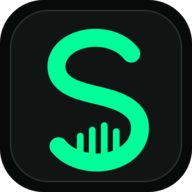
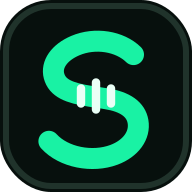
Add files via upload

diff --git a/index.html b/index.html
@@ -5,8 +5,12 @@
   <meta name="viewport" content="width=device-width, initial-scale=1, viewport-fit=cover" />
   <meta name="theme-color" content="#090b0b" />
   <meta name="description" content="SpeakSharp: 1000-question AI speaking practice with free-style recording and detailed grading." />
-  <link rel="manifest" href="./manifest.webmanifest" />
-  <link rel="apple-touch-icon" href="./icon-192.png" />
+  <link rel="preconnect" href="https://fonts.googleapis.com" />
+  <link rel="preconnect" href="https://fonts.gstatic.com" crossorigin />
+  <link href="https://fonts.googleapis.com/css2?family=Poppins:wght@400;500;600;700;800;900&display=swap" rel="stylesheet" />
+  <link rel="icon" type="image/png" href="./icon-192.png?v=4" />
+  <link rel="manifest" href="./manifest.webmanifest?v=4" />
+  <link rel="apple-touch-icon" href="./icon-192.png?v=4" />
   <meta name="apple-mobile-web-app-capable" content="yes" />
   <meta name="apple-mobile-web-app-title" content="SpeakSharp" />
   <title>SpeakSharp</title>
@@ -16,11 +20,11 @@
   --accent:#00ff99;--accentSoft:rgba(0,255,153,.11);--danger:#ff5964;--warn:#ffc85a;--radius:16px;
   --safeTop:env(safe-area-inset-top,0px);--safeBottom:env(safe-area-inset-bottom,0px)
 }
-*{box-sizing:border-box}html{background:var(--bg);color-scheme:dark}body{margin:0;min-width:320px;background:var(--bg);color:var(--text);font-family:Inter,ui-sans-serif,system-ui,-apple-system,BlinkMacSystemFont,"Segoe UI",sans-serif;-webkit-font-smoothing:antialiased}body:not(.results-open){overflow:hidden}
+*{box-sizing:border-box}html{background:var(--bg);color-scheme:dark}body{margin:0;min-width:320px;background:var(--bg);color:var(--text);font-family:"Poppins",ui-sans-serif,system-ui,-apple-system,BlinkMacSystemFont,"Segoe UI",sans-serif;-webkit-font-smoothing:antialiased}body:not(.results-open){overflow:hidden}
 button,select{font:inherit}button{-webkit-tap-highlight-color:transparent}button:focus-visible,select:focus-visible,audio:focus-visible{outline:2px solid var(--accent);outline-offset:2px}.hidden{display:none!important}.install-only{display:none}
 .app-shell{width:min(100%,980px);margin:0 auto}.practice-screen{height:100dvh;min-height:520px;padding:calc(8px + var(--safeTop)) 12px calc(8px + var(--safeBottom));display:grid;grid-template-rows:auto auto auto minmax(0,1fr) auto;gap:8px;overflow:hidden}
-.topbar{display:flex;align-items:center;justify-content:space-between;gap:10px;min-height:38px}.brand{display:flex;align-items:baseline;gap:8px;min-width:0}.brand-mark{font-size:12px;font-weight:950;letter-spacing:.14em;color:var(--accent)}.brand-name{font-size:20px;font-weight:850;letter-spacing:-.04em}.top-actions{display:flex;align-items:center;gap:6px}.ghost-btn,.primary-btn{height:38px;border-radius:11px;padding:0 13px;font-weight:800;cursor:pointer}.ghost-btn{border:1px solid var(--line);background:transparent;color:var(--text)}.primary-btn{border:1px solid var(--accent);background:var(--accent);color:#021008}.ghost-btn:disabled,.primary-btn:disabled{opacity:.42;cursor:not-allowed}.compact{height:34px;padding:0 10px;font-size:12px}
-.mode-tabs{display:grid;grid-template-columns:repeat(3,1fr);gap:6px}.mode-card{height:42px;border:1px solid var(--line);border-radius:11px;background:var(--panel);color:var(--muted);display:flex;align-items:center;justify-content:center;gap:5px;padding:0 5px;font-size:12px;font-weight:800;cursor:pointer;min-width:0}.mode-card.active{border-color:var(--accent);background:var(--accentSoft);color:var(--text)}.mode-icon{font-size:14px}.mode-long{display:none}
+.topbar{display:flex;align-items:center;justify-content:space-between;gap:10px;min-height:38px}.brand{display:flex;align-items:center;gap:9px;min-width:0}.brand-symbol{width:31px;height:31px;flex:0 0 31px;display:block}.brand-name{font-size:20px;font-weight:800;letter-spacing:-.045em;white-space:nowrap}.brand-name .sharp{color:var(--accent)}.top-actions{display:flex;align-items:center;gap:6px}.ghost-btn,.primary-btn{height:38px;border-radius:11px;padding:0 13px;font-weight:800;cursor:pointer}.ghost-btn{border:1px solid var(--line);background:transparent;color:var(--text)}.primary-btn{border:1px solid var(--accent);background:var(--accent);color:#021008}.ghost-btn:disabled,.primary-btn:disabled{opacity:.42;cursor:not-allowed}.compact{height:34px;padding:0 10px;font-size:12px}
+.mode-tabs{display:grid;grid-template-columns:repeat(4,1fr);gap:6px}.mode-card{height:42px;border:1px solid var(--line);border-radius:11px;background:var(--panel);color:var(--muted);display:flex;align-items:center;justify-content:center;gap:5px;padding:0 5px;font-size:12px;font-weight:800;cursor:pointer;min-width:0}.mode-card.active{border-color:var(--accent);background:var(--accentSoft);color:var(--text)}.mode-symbol{font-size:12px;font-weight:900;color:var(--accent);line-height:1}.mode-long{display:none}
 .control-row{display:flex;align-items:center;gap:6px;min-width:0}.select-wrap{position:relative;min-width:0}.select-wrap label{position:absolute;width:1px;height:1px;overflow:hidden;clip:rect(0 0 0 0)}select{height:36px;border:1px solid var(--line);border-radius:10px;background:#0c0f0e;color:var(--text);padding:0 28px 0 10px;font-size:12px;font-weight:700}.grow{margin-left:auto}.new-prompt{height:36px;white-space:nowrap}
 .practice-core{border:1px solid var(--line);border-radius:var(--radius);background:var(--panel);padding:clamp(12px,2.4vw,20px);display:grid;grid-template-rows:auto minmax(0,1fr);min-height:0;overflow:hidden}.prompt-wrap{min-height:0;overflow:hidden}.prompt-meta{color:var(--accent);font-size:10px;font-weight:900;letter-spacing:.14em}.prompt{font-size:clamp(22px,4.8vw,39px);line-height:1.12;font-weight:850;letter-spacing:-.035em;margin-top:6px;max-height:3.45em;overflow:hidden}.cue-list{margin-top:8px;color:#c5cec9;font-size:12px;line-height:1.35}.cue-list ul{margin:0;padding-left:18px;display:grid;grid-template-columns:1fr 1fr;gap:3px 20px}
 .speak-stage{min-height:0;display:flex;align-items:center;justify-content:center;gap:clamp(18px,5vw,54px);padding:8px 0 2px}.timer-wrap{text-align:center;min-width:86px}.timer{font-size:clamp(32px,7vw,52px);line-height:1;font-weight:900;letter-spacing:-.06em;font-variant-numeric:tabular-nums}.timer-label{font-size:9px;font-weight:900;letter-spacing:.16em;color:var(--muted);margin-top:6px}.record-btn{width:clamp(96px,22vw,132px);height:clamp(96px,22vw,132px);border-radius:50%;border:1px solid #314139;background:#0b0f0d;color:var(--text);display:grid;place-items:center;align-content:center;gap:7px;cursor:pointer}.record-btn.recording{border-color:var(--danger)}.record-dot{width:20px;height:20px;border-radius:50%;background:var(--accent)}.recording .record-dot{background:var(--danger);border-radius:5px}#recordBtnText{font-size:11px;font-weight:950;letter-spacing:.13em}.stage-note{max-width:210px;color:var(--muted);font-size:11px;line-height:1.35;margin:0}
@@ -29,9 +33,13 @@ button,select{font:inherit}button{-webkit-tap-highlight-color:transparent}button
 .score-grid{display:grid;grid-template-columns:repeat(4,1fr);gap:7px;margin-top:10px}.score-tile{border:1px solid var(--line);border-radius:12px;background:var(--panel);padding:10px;min-width:0}.score-tile span{display:block;color:var(--muted);font-size:9px;line-height:1.2;min-height:22px}.score-tile strong{display:block;font-size:23px;margin-top:3px}
 .delivery-grid{display:grid;grid-template-columns:repeat(6,1fr);gap:7px;margin-top:7px}.delivery-item{border:1px solid var(--line);border-radius:11px;padding:8px 10px}.delivery-item span{display:block;color:var(--muted);font-size:8px}.delivery-item strong{display:block;font-size:15px;margin-top:2px}
 .report-grid{display:grid;grid-template-columns:1fr 1fr;gap:8px;margin-top:8px}.report-card{border:1px solid var(--line);background:var(--panel);border-radius:14px;padding:14px;min-width:0}.report-card.wide{grid-column:1/-1}.report-card h3{font-size:14px;margin:0 0 8px}.report-card p,.report-card li{color:#c7d0cc;font-size:13px;line-height:1.55}.report-card p{margin:0}.report-card ul{margin:0;padding-left:18px}.transcript{white-space:pre-wrap}.criterion-list,.issue-list{display:grid;gap:7px}.criterion-row,.issue{background:var(--panel2);border-radius:10px;padding:10px}.criterion-top{display:flex;align-items:center;justify-content:space-between;gap:8px}.criterion-row strong,.issue strong{font-size:12px}.criterion-row b{color:var(--accent);font-size:13px}.criterion-row p,.issue p{margin:4px 0 0;font-size:12px;line-height:1.45}.evidence{color:var(--warn)!important}.next-step{color:#d8e1dd!important}.result-actions{margin-top:10px}.empty{color:var(--muted);font-size:12px}.toast{position:fixed;left:50%;bottom:calc(14px + var(--safeBottom));transform:translateX(-50%);max-width:min(90vw,460px);background:#1a221f;border:1px solid var(--line);padding:10px 13px;border-radius:11px;font-size:12px;opacity:0;pointer-events:none;transition:opacity .2s;z-index:20}.toast.show{opacity:1}
+
+.topics-screen{height:100dvh;overflow-y:auto;padding:calc(8px + var(--safeTop)) 12px calc(28px + var(--safeBottom));scroll-behavior:smooth}.topics-inner{width:min(100%,1080px);margin:0 auto}.topics-topbar{display:flex;align-items:center;justify-content:space-between;gap:12px;min-height:42px}.topics-hero{padding:clamp(18px,4vw,36px) 0 16px}.topics-hero h1{font-size:clamp(30px,6vw,52px);line-height:1.02;letter-spacing:-.055em;margin:5px 0 8px}.topics-hero p{margin:0;color:var(--muted);font-size:13px;max-width:680px;line-height:1.55}.topic-tools{display:flex;gap:8px;align-items:center;margin-top:16px}.topic-search{height:42px;flex:1;min-width:0;border:1px solid var(--line);border-radius:12px;background:var(--panel);color:var(--text);padding:0 13px;font:600 13px "Poppins",sans-serif}.topic-search::placeholder{color:#65716c}.topic-count{font-size:11px;color:var(--muted);white-space:nowrap}.topic-layout{display:grid;grid-template-columns:minmax(0,1fr) minmax(330px,.95fr);gap:10px;align-items:start}.topic-grid{display:grid;grid-template-columns:repeat(2,minmax(0,1fr));gap:7px}.topic-card{min-height:72px;border:1px solid var(--line);border-radius:14px;background:var(--panel);color:var(--text);padding:11px;display:flex;align-items:center;gap:10px;text-align:left;cursor:pointer}.topic-card:hover{border-color:#3c4a44}.topic-card.active{border-color:var(--accent);background:var(--accentSoft)}.topic-emoji{width:36px;height:36px;flex:0 0 36px;border-radius:11px;background:var(--panel2);display:grid;place-items:center;font-size:18px;color:var(--accent);font-weight:800}.topic-card-copy{min-width:0}.topic-card-copy strong{display:block;font-size:12px;white-space:nowrap;overflow:hidden;text-overflow:ellipsis}.topic-card-copy span{display:block;color:var(--muted);font-size:9px;margin-top:3px}.topic-detail{position:sticky;top:8px;border:1px solid var(--line);border-radius:16px;background:var(--panel);padding:15px}.topic-detail-empty{min-height:260px;display:grid;place-items:center;text-align:center;color:var(--muted);font-size:12px;padding:30px}.topic-detail-head{display:flex;align-items:center;justify-content:space-between;gap:10px;margin-bottom:10px}.topic-detail-title{display:flex;align-items:center;gap:10px;min-width:0}.topic-detail-title .topic-emoji{width:40px;height:40px;flex-basis:40px}.topic-detail-title h2{font-size:18px;letter-spacing:-.035em;margin:0}.topic-detail-title p{font-size:9px;color:var(--muted);margin:2px 0 0}.topic-random-btn{height:36px;padding:0 10px}.topic-questions{display:grid;gap:6px}.topic-question{width:100%;border:1px solid var(--line);border-radius:11px;background:#0c0f0e;color:#dfe6e3;text-align:left;padding:9px 10px;display:flex;gap:8px;align-items:flex-start;cursor:pointer;font:500 11px/1.42 "Poppins",sans-serif}.topic-question:hover{border-color:var(--accent);background:var(--accentSoft)}.topic-question b{color:var(--accent);font-size:9px;min-width:18px;padding-top:2px}.topic-empty{grid-column:1/-1;border:1px dashed var(--line);border-radius:14px;padding:24px;color:var(--muted);text-align:center;font-size:12px}
+@media(max-width:760px){.topics-screen{padding-left:9px;padding-right:9px}.topics-hero{padding:16px 0 12px}.topic-tools{margin-top:12px}.topic-layout{grid-template-columns:1fr}.topic-detail{position:static;order:-1}.topic-grid{grid-template-columns:repeat(2,minmax(0,1fr))}.topic-card{min-height:64px;padding:9px}.topic-emoji{width:32px;height:32px;flex-basis:32px;font-size:16px}.topic-detail-empty{min-height:120px}.topic-detail-head{align-items:flex-start}.topic-random-btn{font-size:10px}.topic-question{font-size:10.5px;padding:8px 9px}}
+@media(max-width:390px){.topic-grid{grid-template-columns:1fr 1fr;gap:5px}.topic-card{gap:7px}.topic-card-copy strong{font-size:10.5px}.topic-card-copy span{font-size:8px}.topic-count{display:none}.topics-hero h1{font-size:30px}.topic-detail{padding:11px}.topic-detail-title h2{font-size:16px}}
 .hidden-maintenance{display:none!important}
-@media(max-width:700px){.practice-screen{padding-left:8px;padding-right:8px;gap:6px}.brand-name{font-size:18px}.mode-card{height:38px;font-size:10px;gap:3px}.mode-icon{font-size:12px}.control-row select,.new-prompt{height:34px}.practice-core{padding:11px}.prompt{font-size:clamp(20px,7vw,31px);max-height:4.55em}.cue-list{font-size:10.5px}.cue-list ul{grid-template-columns:1fr;gap:1px}.speak-stage{gap:18px}.stage-note{display:none}.recorded-panel{grid-template-columns:1fr auto;gap:6px}.recorded-panel audio{grid-column:1/-1;height:34px}.metric-strip{grid-column:1/2}.recorded-panel .action-row{grid-column:2/3}.mini-metric{padding:5px}.mini-metric span{font-size:7px}.mini-metric strong{font-size:12px}.score-grid{grid-template-columns:1fr 1fr}.delivery-grid{grid-template-columns:repeat(3,1fr)}.report-grid{grid-template-columns:1fr}.report-card.wide{grid-column:auto}}
-@media(max-width:390px){.brand-mark{display:none}.mode-card{font-size:9px;padding:0 2px}.mode-icon{display:none}.control-row{gap:4px}.control-row select{max-width:112px;padding-left:7px}.new-prompt{font-size:11px;padding:0 8px}.prompt{font-size:clamp(19px,6.5vw,25px)}.record-btn{width:92px;height:92px}.timer{font-size:31px}.metric-strip{gap:3px}.mini-metric{padding:4px}.recorded-panel .ghost-btn{display:none}.recorded-panel .primary-btn{padding:0 8px;font-size:11px}}
+@media(max-width:700px){.practice-screen{padding-left:8px;padding-right:8px;gap:6px}.brand-name{font-size:18px}.mode-card{height:38px;font-size:10px;gap:3px}.mode-symbol{font-size:11px}.control-row select,.new-prompt{height:34px}.practice-core{padding:11px}.prompt{font-size:clamp(20px,7vw,31px);max-height:4.55em}.cue-list{font-size:10.5px}.cue-list ul{grid-template-columns:1fr;gap:1px}.speak-stage{gap:18px}.stage-note{display:none}.recorded-panel{grid-template-columns:1fr auto;gap:6px}.recorded-panel audio{grid-column:1/-1;height:34px}.metric-strip{grid-column:1/2}.recorded-panel .action-row{grid-column:2/3}.mini-metric{padding:5px}.mini-metric span{font-size:7px}.mini-metric strong{font-size:12px}.score-grid{grid-template-columns:1fr 1fr}.delivery-grid{grid-template-columns:repeat(3,1fr)}.report-grid{grid-template-columns:1fr}.report-card.wide{grid-column:auto}}
+@media(max-width:390px){.brand-symbol{width:27px;height:27px;flex-basis:27px}.brand-name{font-size:16px}.mode-card{font-size:9px;padding:0 2px}.mode-symbol{display:none}.control-row{gap:4px}.control-row select{max-width:112px;padding-left:7px}.new-prompt{font-size:11px;padding:0 8px}.prompt{font-size:clamp(19px,6.5vw,25px)}.record-btn{width:92px;height:92px}.timer{font-size:31px}.metric-strip{gap:3px}.mini-metric{padding:4px}.recorded-panel .ghost-btn{display:none}.recorded-panel .primary-btn{padding:0 8px;font-size:11px}}
 @media(max-height:650px){.practice-screen{gap:5px}.topbar{min-height:32px}.mode-tabs{gap:4px}.mode-card{height:34px}.control-row select,.new-prompt{height:32px}.practice-core{padding:9px}.prompt{font-size:clamp(18px,4.8vw,28px);margin-top:4px}.cue-list{margin-top:5px}.record-btn{width:88px;height:88px}.timer{font-size:30px}.speak-stage{padding:3px 0}.recorded-panel{min-height:50px;padding:5px}}
 @media(prefers-reduced-motion:reduce){*{scroll-behavior:auto!important;transition:none!important}}
   </style>
@@ -40,7 +48,7 @@ button,select{font:inherit}button{-webkit-tap-highlight-color:transparent}button
   <div class="app-shell">
     <section class="practice-screen" aria-label="Speaking practice">
       <header class="topbar">
-        <div class="brand"><span class="brand-mark">SS</span><span class="brand-name">SpeakSharp</span></div>
+        <div class="brand"><svg class="brand-symbol" viewBox="0 0 64 64" aria-hidden="true"><rect x="2" y="2" width="60" height="60" rx="17" fill="#0d1512" stroke="#26302c" stroke-width="2"/><path d="M44.5 18.2C39.9 13.7 31.7 12.4 25.1 15.2C19.7 17.5 17 21.5 18 25.3C19.1 29.4 23 31 30.1 32.1L35.3 32.9C41.8 33.9 45.3 36.5 46 40.5C46.8 45.1 43.6 49.5 38 51.6C30.8 54.3 21.2 52.5 16.3 47.1" fill="none" stroke="#19f2a4" stroke-width="7" stroke-linecap="round"/><path d="M27 29.5v5M32 27.5v9M37 29.5v5" stroke="#eafff6" stroke-width="2.8" stroke-linecap="round"/></svg><span class="brand-name">Speak<span class="sharp">Sharp</span></span></div>
         <div class="top-actions">
           <button id="installBtn" class="ghost-btn compact hidden" type="button">Install</button>
           <button id="apiKeyBtn" class="ghost-btn compact" type="button">API key</button>
@@ -48,9 +56,10 @@ button,select{font:inherit}button{-webkit-tap-highlight-color:transparent}button
       </header>
 
       <nav class="mode-tabs" aria-label="Practice mode">
-        <button class="mode-card active" data-mode="random" type="button"><span class="mode-icon">🎲</span><span>Random</span></button>
-        <button class="mode-card" data-mode="ielts" type="button"><span class="mode-icon">🎓</span><span>IELTS</span></button>
-        <button class="mode-card" data-mode="thought" type="button"><span class="mode-icon">🧠</span><span>Thought</span></button>
+        <button class="mode-card active" data-mode="random" type="button"><span class="mode-symbol">↻</span><span>Random</span></button>
+        <button class="mode-card" data-mode="topics" type="button"><span class="mode-symbol">#</span><span>Topics</span></button>
+        <button class="mode-card" data-mode="ielts" type="button"><span class="mode-symbol">I</span><span>IELTS</span></button>
+        <button class="mode-card" data-mode="thought" type="button"><span class="mode-symbol">→</span><span>Thought</span></button>
       </nav>
 
       <div class="control-row">
@@ -91,6 +100,29 @@ button,select{font:inherit}button{-webkit-tap-highlight-color:transparent}button
         <div class="metric-strip" id="localMetrics"></div>
         <div class="action-row"><button id="retryBtn" class="ghost-btn" type="button">Again</button><button id="gradeBtn" class="primary-btn" type="button">AI GRADE</button></div>
         <div id="gradeStatus" class="status" role="status" aria-live="polite"></div>
+      </div>
+    </section>
+
+
+    <section id="topicsScreen" class="topics-screen hidden" aria-label="Topic library">
+      <div class="topics-inner">
+        <header class="topics-topbar">
+          <div class="brand"><svg class="brand-symbol" viewBox="0 0 64 64" aria-hidden="true"><rect x="2" y="2" width="60" height="60" rx="17" fill="#0d1512" stroke="#26302c" stroke-width="2"/><path d="M44.5 18.2C39.9 13.7 31.7 12.4 25.1 15.2C19.7 17.5 17 21.5 18 25.3C19.1 29.4 23 31 30.1 32.1L35.3 32.9C41.8 33.9 45.3 36.5 46 40.5C46.8 45.1 43.6 49.5 38 51.6C30.8 54.3 21.2 52.5 16.3 47.1" fill="none" stroke="#19f2a4" stroke-width="7" stroke-linecap="round"/><path d="M27 29.5v5M32 27.5v9M37 29.5v5" stroke="#eafff6" stroke-width="2.8" stroke-linecap="round"/></svg><span class="brand-name">Speak<span class="sharp">Sharp</span></span></div>
+          <button id="topicBackBtn" class="ghost-btn compact" type="button">← Practice</button>
+        </header>
+        <div class="topics-hero">
+          <div class="eyebrow">TOPIC LIBRARY · 400 QUESTIONS</div>
+          <h1>Choose one thing to talk about.</h1>
+          <p>40 high-frequency speaking topics. Each topic contains 10 questions from the existing 1,000-question bank, so you can build depth instead of relying only on random prompts.</p>
+          <div class="topic-tools">
+            <input id="topicSearch" class="topic-search" type="search" placeholder="Search topics…" autocomplete="off" aria-label="Search topics" />
+            <span id="topicCount" class="topic-count">40 topics</span>
+          </div>
+        </div>
+        <div class="topic-layout">
+          <div id="topicGrid" class="topic-grid"></div>
+          <aside id="topicDetail" class="topic-detail"><div class="topic-detail-empty">Choose a topic to see its 10 questions.</div></aside>
+        </div>
       </div>
     </section>
 
@@ -1947,8 +1979,26 @@ button,select{font:inherit}button{-webkit-tap-highlight-color:transparent}button
   const QUESTION_BANK_TOTAL = BANKS.random.length + BANKS.thought.length + IELTS[1].length + IELTS[2].length + IELTS[3].length;
   if (QUESTION_BANK_TOTAL !== 1000) console.warn('Question bank count:', QUESTION_BANK_TOTAL);
 
+
+  const TOPIC_META = [
+    ['Daily routines','Everyday','☼'],['Technology','Tech & media','⌘'],['Social media','Tech & media','@'],['Travel','Places','↗'],['Public transport','Places','⇄'],
+    ['Food & eating','Lifestyle','◉'],['Fitness','Lifestyle','▲'],['Sleep','Lifestyle','☾'],['Money','Everyday','$'],['Shopping','Everyday','▣'],
+    ['Friendships','People','♡'],['Family life','People','⌂'],['Work','Work & study','▤'],['Education','Work & study','✎'],['Language learning','Work & study','A'],
+    ['Books & reading','Culture','▥'],['Music','Culture','♫'],['Films','Culture','▶'],['Photography','Culture','◎'],['Fashion','Culture','◇'],
+    ['Weather','Nature','☁'],['Nature','Nature','♧'],['City life','Places','▦'],['Neighbourhoods','Places','⌖'],['Housing','Everyday','⌂'],
+    ['Holidays','Lifestyle','✦'],['Customer service','Everyday','◌'],['Leadership','Work & study','◆'],['Teamwork','Work & study','●'],['Communication','People','◫'],
+    ['Decision-making','Personal growth','✓'],['Time management','Personal growth','◷'],['Productivity','Personal growth','↑'],['Creativity','Personal growth','✣'],['Stress','Personal growth','≈'],
+    ['Success','Personal growth','★'],['Failure','Personal growth','↺'],['Habits','Personal growth','∞'],['Health','Lifestyle','＋'],['Personal goals','Personal growth','◎']
+  ];
+  const TOPICS = TOPIC_META.map(([name, category, icon], index) => ({
+    name, category, icon, questions: BANKS.random.slice(index * 10, index * 10 + 10)
+  }));
+
   const state = {
     mode: 'random',
+    topicIndex: null,
+    topicName: '',
+    selectedTopicIndex: null,
     prompt: '',
     cues: [],
     recorder: null,
@@ -1974,7 +2024,8 @@ button,select{font:inherit}button{-webkit-tap-highlight-color:transparent}button
     gradeStatus: $('#gradeStatus'), resultSection: $('#resultSection'), resultHeadline: $('#resultHeadline'), resultSummary: $('#resultSummary'), bandScore: $('#bandScore'),
     scoreGrid: $('#scoreGrid'), deliveryMetrics: $('#deliveryMetrics'), criterionFeedback: $('#criterionFeedback'), transcriptText: $('#transcriptText'), strengthList: $('#strengthList'), issueList: $('#issueList'), betterAnswer: $('#betterAnswer'), band9Answer: $('#band9Answer'),
     samePromptBtn: $('#samePromptBtn'), nextPromptBtn: $('#nextPromptBtn'), progressStats: $('#progressStats'), historyList: $('#historyList'), clearHistoryBtn: $('#clearHistoryBtn'),
-    apiKeyBtn: $('#apiKeyBtn'), installBtn: $('#installBtn'), toast: $('#toast')
+    apiKeyBtn: $('#apiKeyBtn'), installBtn: $('#installBtn'), toast: $('#toast'),
+    topicsScreen: $('#topicsScreen'), topicGrid: $('#topicGrid'), topicDetail: $('#topicDetail'), topicSearch: $('#topicSearch'), topicCount: $('#topicCount'), topicBackBtn: $('#topicBackBtn')
   };
 
   function formatTime(sec) {
@@ -2028,6 +2079,11 @@ button,select{font:inherit}button{-webkit-tap-highlight-color:transparent}button
         state.cues = item.cues;
       } else state.prompt = item;
       els.promptMeta.textContent = `IELTS PART ${part} · ${IELTS[part].length} QUESTIONS`;
+    } else if (state.mode === 'topic') {
+      const topic = TOPICS[state.topicIndex ?? 0];
+      state.topicName = topic.name;
+      state.prompt = pickNonRepeat(topic.questions, `topic-${state.topicIndex ?? 0}`);
+      els.promptMeta.textContent = `TOPIC · ${topic.name.toUpperCase()} · ${topic.questions.length} QUESTIONS`;
     } else {
       state.prompt = pickNonRepeat(BANKS[state.mode], state.mode);
       const labels = { random: `RANDOM · ${BANKS.random.length} QUESTIONS`, thought: `THOUGHT → SPEECH · ${BANKS.thought.length} QUESTIONS` };
@@ -2044,12 +2100,85 @@ button,select{font:inherit}button{-webkit-tap-highlight-color:transparent}button
     return String(s).replace(/[&<>'"]/g, ch => ({ '&':'&amp;', '<':'&lt;', '>':'&gt;', "'":'&#39;', '"':'&quot;' }[ch]));
   }
 
+  function markModeTab(mode) {
+    const tabMode = mode === 'topic' ? 'topics' : mode;
+    $$('.mode-card').forEach(btn => btn.classList.toggle('active', btn.dataset.mode === tabMode));
+  }
+
+  function showPracticeScreen() {
+    els.topicsScreen.classList.add('hidden');
+    $('.practice-screen').classList.remove('hidden');
+    document.body.classList.remove('topics-open');
+  }
+
+  function showTopicsPage() {
+    if (state.recording || state.countdown) return toast('Stop the current recording first.');
+    $('.practice-screen').classList.add('hidden');
+    els.resultSection.classList.add('hidden');
+    els.topicsScreen.classList.remove('hidden');
+    document.body.classList.remove('results-open');
+    document.body.classList.add('topics-open');
+    markModeTab('topics');
+    renderTopics(els.topicSearch.value);
+  }
+
   function setMode(mode) {
     if (state.recording || state.countdown) return toast('Stop the current recording first.');
+    if (mode === 'topics') return showTopicsPage();
+    showPracticeScreen();
     state.mode = mode;
-    $$('.mode-card').forEach(btn => btn.classList.toggle('active', btn.dataset.mode === mode));
+    state.topicIndex = null;
+    state.topicName = '';
+    markModeTab(mode);
     els.ieltsPartWrap.hidden = mode !== 'ielts';
     setPrompt();
+  }
+
+  function renderTopics(query = '') {
+    const q = String(query || '').trim().toLowerCase();
+    const filtered = TOPICS.map((topic, index) => ({topic,index})).filter(({topic}) => !q || `${topic.name} ${topic.category}`.toLowerCase().includes(q));
+    els.topicCount.textContent = `${filtered.length} topic${filtered.length === 1 ? '' : 's'}`;
+    els.topicGrid.innerHTML = filtered.length ? filtered.map(({topic,index}) => `
+      <button class="topic-card${state.selectedTopicIndex === index ? ' active' : ''}" type="button" data-topic-index="${index}">
+        <span class="topic-emoji">${escapeHtml(topic.icon)}</span>
+        <span class="topic-card-copy"><strong>${escapeHtml(topic.name)}</strong><span>${escapeHtml(topic.category)} · 10 questions</span></span>
+      </button>`).join('') : '<div class="topic-empty">No topic matches that search.</div>';
+    els.topicGrid.querySelectorAll('[data-topic-index]').forEach(btn => btn.addEventListener('click', () => selectTopic(Number(btn.dataset.topicIndex), true)));
+  }
+
+  function selectTopic(index, scroll = false) {
+    const topic = TOPICS[index];
+    if (!topic) return;
+    state.selectedTopicIndex = index;
+    els.topicDetail.innerHTML = `
+      <div class="topic-detail-head">
+        <div class="topic-detail-title"><span class="topic-emoji">${escapeHtml(topic.icon)}</span><div><h2>${escapeHtml(topic.name)}</h2><p>${escapeHtml(topic.category.toUpperCase())} · 10 QUESTIONS</p></div></div>
+        <button class="primary-btn topic-random-btn" type="button" id="topicRandomPractice">Random one</button>
+      </div>
+      <div class="topic-questions">${topic.questions.map((question, qIndex) => `<button class="topic-question" type="button" data-topic-question="${qIndex}"><b>${String(qIndex + 1).padStart(2,'0')}</b><span>${escapeHtml(question)}</span></button>`).join('')}</div>`;
+    $('#topicRandomPractice').addEventListener('click', () => startTopicPractice(index));
+    els.topicDetail.querySelectorAll('[data-topic-question]').forEach(btn => btn.addEventListener('click', () => startTopicPractice(index, Number(btn.dataset.topicQuestion))));
+    renderTopics(els.topicSearch.value);
+    if (scroll && window.innerWidth <= 760) els.topicDetail.scrollIntoView({behavior:'smooth', block:'start'});
+  }
+
+  function startTopicPractice(topicIndex, questionIndex = null) {
+    const topic = TOPICS[topicIndex];
+    if (!topic) return;
+    showPracticeScreen();
+    state.mode = 'topic';
+    state.topicIndex = topicIndex;
+    state.topicName = topic.name;
+    state.cues = [];
+    state.prompt = questionIndex == null ? pickNonRepeat(topic.questions, `topic-${topicIndex}`) : topic.questions[questionIndex];
+    markModeTab('topic');
+    els.ieltsPartWrap.hidden = true;
+    els.promptMeta.textContent = `TOPIC · ${topic.name.toUpperCase()} · 10 QUESTIONS`;
+    els.promptText.textContent = state.prompt;
+    els.cueList.innerHTML = '';
+    applyDefaultTimerForPrompt();
+    updateMicrocopy();
+    resetRecordingUI(false);
   }
 
   function updateMicrocopy() {
@@ -2345,7 +2474,7 @@ button,select{font:inherit}button{-webkit-tap-highlight-color:transparent}button
     const modeInstruction = state.mode === 'ielts'
       ? `This is IELTS Speaking Part ${part}. Apply IELTS Speaking public-band logic rigorously to Fluency & Coherence, Lexical Resource, Grammatical Range & Accuracy, and Pronunciation.`
       : 'This is a spontaneous speaking-performance drill. Give an IELTS-equivalent estimate for tracking, but judge the answer primarily as natural, clear, direct spoken English.';
-    return `You are an exacting English speaking coach and IELTS speaking assessor. Listen to the ENTIRE audio before scoring. Be evidence-based and conservative: do not award a high score just because the answer is understandable.\n\nTASK\n${modeInstruction}\nPrompt: ${state.prompt}\n${state.cues.length ? `Cue points: ${state.cues.join(' | ')}` : ''}\nTimer mode: ${timerDescription}\nBrowser-measured delivery metrics (supporting evidence, not ground truth):\n- total recording duration: ${m.duration ?? 'unknown'} seconds\n- response latency: ${m.responseLatency ?? 'unknown'} seconds\n- long internal pauses >=0.8s: ${m.longPauses ?? 'unknown'}\n- silence ratio inside speech span: ${m.silenceRatio ?? 'unknown'}\n\nSCORE 8 DIMENSIONS, EACH 0-9 IN 0.5 INCREMENTS\n1. fluencyCoherence — flow, hesitation, repetition, self-correction, linking, logical progression and development.\n2. lexicalResource — range, precision, collocation, paraphrase, idiomatic naturalness, repetition and translation-like wording.\n3. grammar — grammatical range plus accuracy under spontaneous speaking pressure.\n4. pronunciation — intelligibility, individual sounds only where clearly audible, final consonants, word stress, sentence stress, rhythm and connected speech. Do NOT invent phoneme errors.\n5. ideaDevelopment — quality and completeness of explanation, support, examples and depth relative to the prompt. In Free style, do not penalize merely for being shorter or longer if the response is complete and relevant.\n6. relevanceDirectness — whether the speaker answers the exact question promptly, stays on point and avoids unnecessary detours.\n7. naturalnessSpontaneity — whether the answer sounds genuinely generated in real time rather than translated, memorized, over-engineered or formulaic.\n8. deliveryPacing — speaking rate, pause placement, rhythm, filler control, response latency and overall ease of listening.\n\nIELTS ESTIMATE\n- estimatedBand must be a 0.5 increment from 0-9 and be based ONLY on the four IELTS criteria: fluencyCoherence, lexicalResource, grammar, pronunciation.\n- overallScore is 0-100 and reflects all 8 dimensions plus the measured delivery metrics.\n- This is training feedback, not an official IELTS result.\n\nDETAILED FEEDBACK RULES\n1. Transcribe exactly what the speaker says; preserve meaningful fillers, false starts and self-corrections. Do not silently fix grammar.\n2. For EVERY one of the 8 dimensions return: a concise verdict, one short exact evidence fragment from the transcript when possible, and one concrete nextStep. If evidence is mainly acoustic, describe only what is clearly audible.\n3. Return 2-5 specific strengths.\n4. Return up to 8 highest-value issues. Each issue must contain a short exact evidence fragment when possible and a practical fix. Prioritize recurring/high-impact problems over tiny slips.\n5. pronunciationDetails must separately address intelligibility, soundsFinals, stressRhythm, and connectedSpeech. Be careful and never fabricate sound errors.\n6. betterAnswer must preserve the speaker's intended meaning and correct the weaknesses. In Free style, keep it concise but complete rather than forcing a fixed duration.\n7. band9Answer must be a natural high-level model answer, not a memorized essay, and proportionate to the prompt.\n8. fillerWords must contain fillers actually heard, not generic examples.\n9. summary must be blunt, diagnostic and under 55 words.\n\nReturn ONLY valid JSON with exactly this shape:\n{\n  "transcript":"",\n  "summary":"",\n  "estimatedBand":0,\n  "overallScore":0,\n  "scores":{\n    "fluencyCoherence":0,\n    "lexicalResource":0,\n    "grammar":0,\n    "pronunciation":0,\n    "ideaDevelopment":0,\n    "relevanceDirectness":0,\n    "naturalnessSpontaneity":0,\n    "deliveryPacing":0\n  },\n  "criterionFeedback":{\n    "fluencyCoherence":{"verdict":"","evidence":"","nextStep":""},\n    "lexicalResource":{"verdict":"","evidence":"","nextStep":""},\n    "grammar":{"verdict":"","evidence":"","nextStep":""},\n    "pronunciation":{"verdict":"","evidence":"","nextStep":""},\n    "ideaDevelopment":{"verdict":"","evidence":"","nextStep":""},\n    "relevanceDirectness":{"verdict":"","evidence":"","nextStep":""},\n    "naturalnessSpontaneity":{"verdict":"","evidence":"","nextStep":""},\n    "deliveryPacing":{"verdict":"","evidence":"","nextStep":""}\n  },\n  "pronunciationDetails":{"intelligibility":"","soundsFinals":"","stressRhythm":"","connectedSpeech":""},\n  "strengths":[],\n  "issues":[{"title":"","evidence":"","fix":""}],\n  "betterAnswer":"",\n  "band9Answer":"",\n  "fillerWords":[],\n  "wordCount":0\n}`;
+    return `You are an exacting English speaking coach and IELTS speaking assessor. Listen to the ENTIRE audio before scoring. Be evidence-based and conservative: do not award a high score just because the answer is understandable.\n\nTASK\n${modeInstruction}\n${state.mode === 'topic' ? `Topic: ${state.topicName}\n` : ''}Prompt: ${state.prompt}\n${state.cues.length ? `Cue points: ${state.cues.join(' | ')}` : ''}\nTimer mode: ${timerDescription}\nBrowser-measured delivery metrics (supporting evidence, not ground truth):\n- total recording duration: ${m.duration ?? 'unknown'} seconds\n- response latency: ${m.responseLatency ?? 'unknown'} seconds\n- long internal pauses >=0.8s: ${m.longPauses ?? 'unknown'}\n- silence ratio inside speech span: ${m.silenceRatio ?? 'unknown'}\n\nSCORE 8 DIMENSIONS, EACH 0-9 IN 0.5 INCREMENTS\n1. fluencyCoherence — flow, hesitation, repetition, self-correction, linking, logical progression and development.\n2. lexicalResource — range, precision, collocation, paraphrase, idiomatic naturalness, repetition and translation-like wording.\n3. grammar — grammatical range plus accuracy under spontaneous speaking pressure.\n4. pronunciation — intelligibility, individual sounds only where clearly audible, final consonants, word stress, sentence stress, rhythm and connected speech. Do NOT invent phoneme errors.\n5. ideaDevelopment — quality and completeness of explanation, support, examples and depth relative to the prompt. In Free style, do not penalize merely for being shorter or longer if the response is complete and relevant.\n6. relevanceDirectness — whether the speaker answers the exact question promptly, stays on point and avoids unnecessary detours.\n7. naturalnessSpontaneity — whether the answer sounds genuinely generated in real time rather than translated, memorized, over-engineered or formulaic.\n8. deliveryPacing — speaking rate, pause placement, rhythm, filler control, response latency and overall ease of listening.\n\nIELTS ESTIMATE\n- estimatedBand must be a 0.5 increment from 0-9 and be based ONLY on the four IELTS criteria: fluencyCoherence, lexicalResource, grammar, pronunciation.\n- overallScore is 0-100 and reflects all 8 dimensions plus the measured delivery metrics.\n- This is training feedback, not an official IELTS result.\n\nDETAILED FEEDBACK RULES\n1. Transcribe exactly what the speaker says; preserve meaningful fillers, false starts and self-corrections. Do not silently fix grammar.\n2. For EVERY one of the 8 dimensions return: a concise verdict, one short exact evidence fragment from the transcript when possible, and one concrete nextStep. If evidence is mainly acoustic, describe only what is clearly audible.\n3. Return 2-5 specific strengths.\n4. Return up to 8 highest-value issues. Each issue must contain a short exact evidence fragment when possible and a practical fix. Prioritize recurring/high-impact problems over tiny slips.\n5. pronunciationDetails must separately address intelligibility, soundsFinals, stressRhythm, and connectedSpeech. Be careful and never fabricate sound errors.\n6. betterAnswer must preserve the speaker's intended meaning and correct the weaknesses. In Free style, keep it concise but complete rather than forcing a fixed duration.\n7. band9Answer must be a natural high-level model answer, not a memorized essay, and proportionate to the prompt.\n8. fillerWords must contain fillers actually heard, not generic examples.\n9. summary must be blunt, diagnostic and under 55 words.\n\nReturn ONLY valid JSON with exactly this shape:\n{\n  "transcript":"",\n  "summary":"",\n  "estimatedBand":0,\n  "overallScore":0,\n  "scores":{\n    "fluencyCoherence":0,\n    "lexicalResource":0,\n    "grammar":0,\n    "pronunciation":0,\n    "ideaDevelopment":0,\n    "relevanceDirectness":0,\n    "naturalnessSpontaneity":0,\n    "deliveryPacing":0\n  },\n  "criterionFeedback":{\n    "fluencyCoherence":{"verdict":"","evidence":"","nextStep":""},\n    "lexicalResource":{"verdict":"","evidence":"","nextStep":""},\n    "grammar":{"verdict":"","evidence":"","nextStep":""},\n    "pronunciation":{"verdict":"","evidence":"","nextStep":""},\n    "ideaDevelopment":{"verdict":"","evidence":"","nextStep":""},\n    "relevanceDirectness":{"verdict":"","evidence":"","nextStep":""},\n    "naturalnessSpontaneity":{"verdict":"","evidence":"","nextStep":""},\n    "deliveryPacing":{"verdict":"","evidence":"","nextStep":""}\n  },\n  "pronunciationDetails":{"intelligibility":"","soundsFinals":"","stressRhythm":"","connectedSpeech":""},\n  "strengths":[],\n  "issues":[{"title":"","evidence":"","fix":""}],\n  "betterAnswer":"",\n  "band9Answer":"",\n  "fillerWords":[],\n  "wordCount":0\n}`;
   }
 
   function extractGeminiText(payload) {
@@ -2520,7 +2649,7 @@ button,select{font:inherit}button{-webkit-tap-highlight-color:transparent}button
   }
 
   function modeLabel(mode) {
-    return ({ random: 'Random', ielts: `IELTS Part ${currentIeltsPart()}`, thought: 'Thought → Speech' })[mode] || mode;
+    return ({ random: 'Random', topic: `Topic · ${state.topicName || 'Practice'}`, ielts: `IELTS Part ${currentIeltsPart()}`, thought: 'Thought → Speech' })[mode] || mode;
   }
 
   function getHistory() {
@@ -2580,6 +2709,8 @@ button,select{font:inherit}button{-webkit-tap-highlight-color:transparent}button
   function wire() {
     $$('.mode-card').forEach(btn => btn.addEventListener('click', () => setMode(btn.dataset.mode)));
     els.randomBtn.addEventListener('click', () => setPrompt());
+    els.topicBackBtn.addEventListener('click', () => { showPracticeScreen(); markModeTab(state.mode); });
+    els.topicSearch.addEventListener('input', () => renderTopics(els.topicSearch.value));
     els.ieltsPart.addEventListener('change', () => setPrompt());
     els.timeLimit.addEventListener('change', () => {
       if (!state.recording && !state.countdown) {
@@ -2631,7 +2762,7 @@ button,select{font:inherit}button{-webkit-tap-highlight-color:transparent}button
       }).catch(() => {});
     }
   }
-  wire(); updateApiKeyButton(); renderHistory(); setPrompt();
+  wire(); updateApiKeyButton(); renderHistory(); renderTopics(); selectTopic(0, false); setPrompt();
 })();
 
   </script>

diff --git a/sw.js b/sw.js
@@ -1,4 +1,4 @@
-const CACHE = 'speaksharp-v3-auto-update-20260831';
+const CACHE = 'speaksharp-v4-topics-logo-20260831';
 const OFFLINE_ASSETS = [
   './index.html',
   './manifest.webmanifest',
@@ -25,7 +25,7 @@ self.addEventListener('activate', event => {
 async function networkFirst(request) {
   try {
     const response = await fetch(request, { cache: 'no-store' });
-    if (response && response.ok) {
+    if (response && (response.ok || response.type === 'opaque')) {
       const cache = await caches.open(CACHE);
       cache.put(request, response.clone()).catch(() => {});
     }
@@ -46,7 +46,9 @@ self.addEventListener('fetch', event => {
   if (request.method !== 'GET') return;
 
   const url = new URL(request.url);
-  if (url.origin !== self.location.origin) return;
+  const sameOrigin = url.origin === self.location.origin;
+  const fontAsset = url.hostname === 'fonts.googleapis.com' || url.hostname === 'fonts.gstatic.com';
+  if (!sameOrigin && !fontAsset) return;
 
   // Always prefer the newest online file. Cache is only an offline fallback.
   event.respondWith(networkFirst(request));
